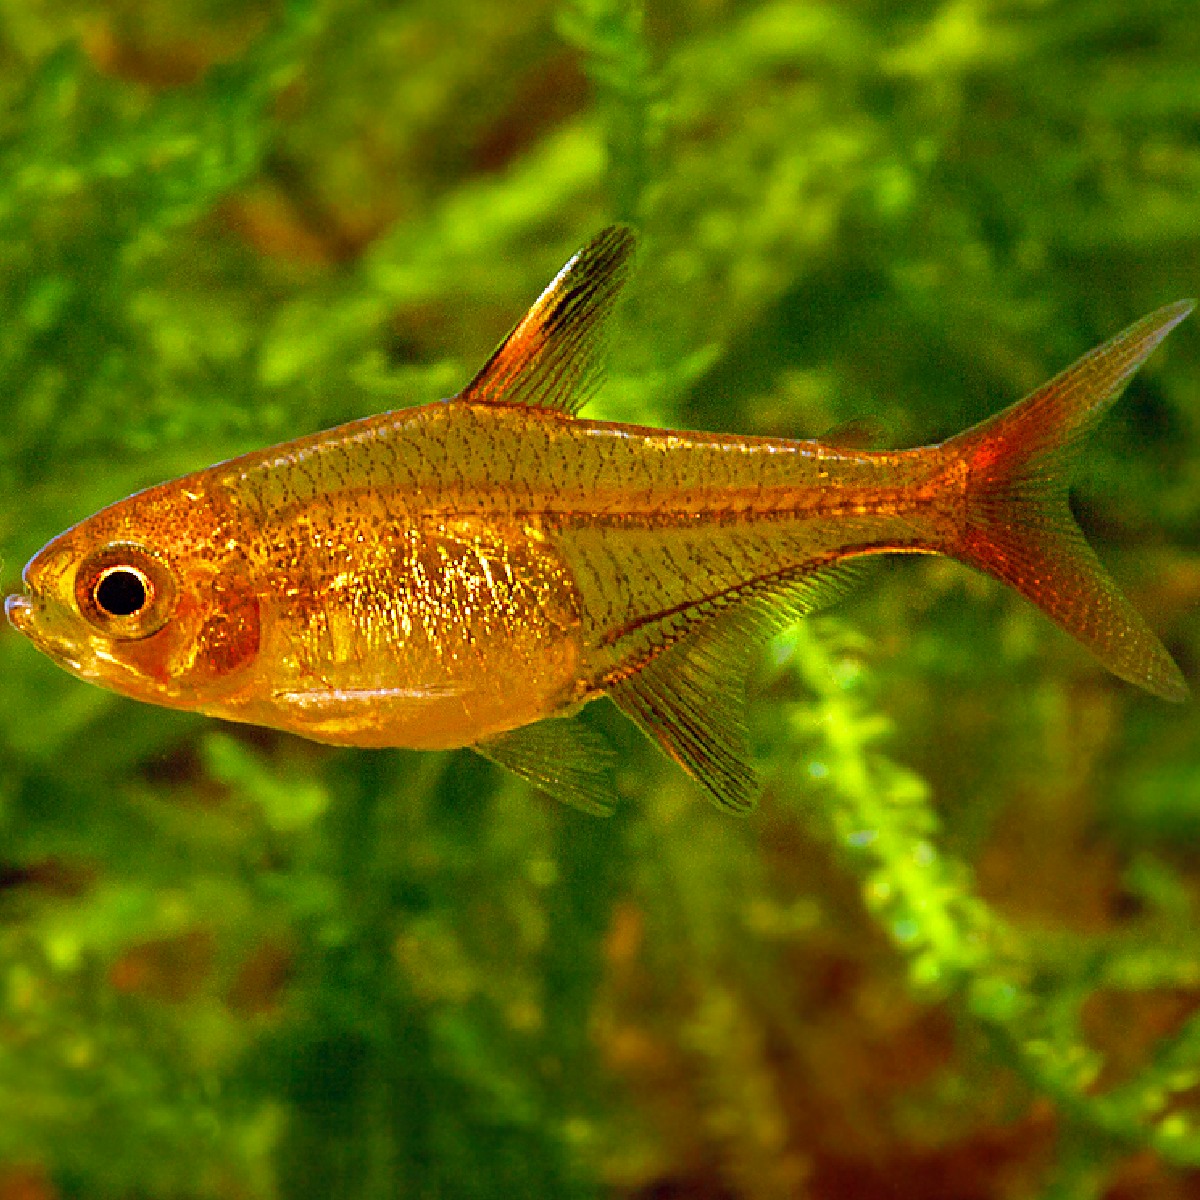
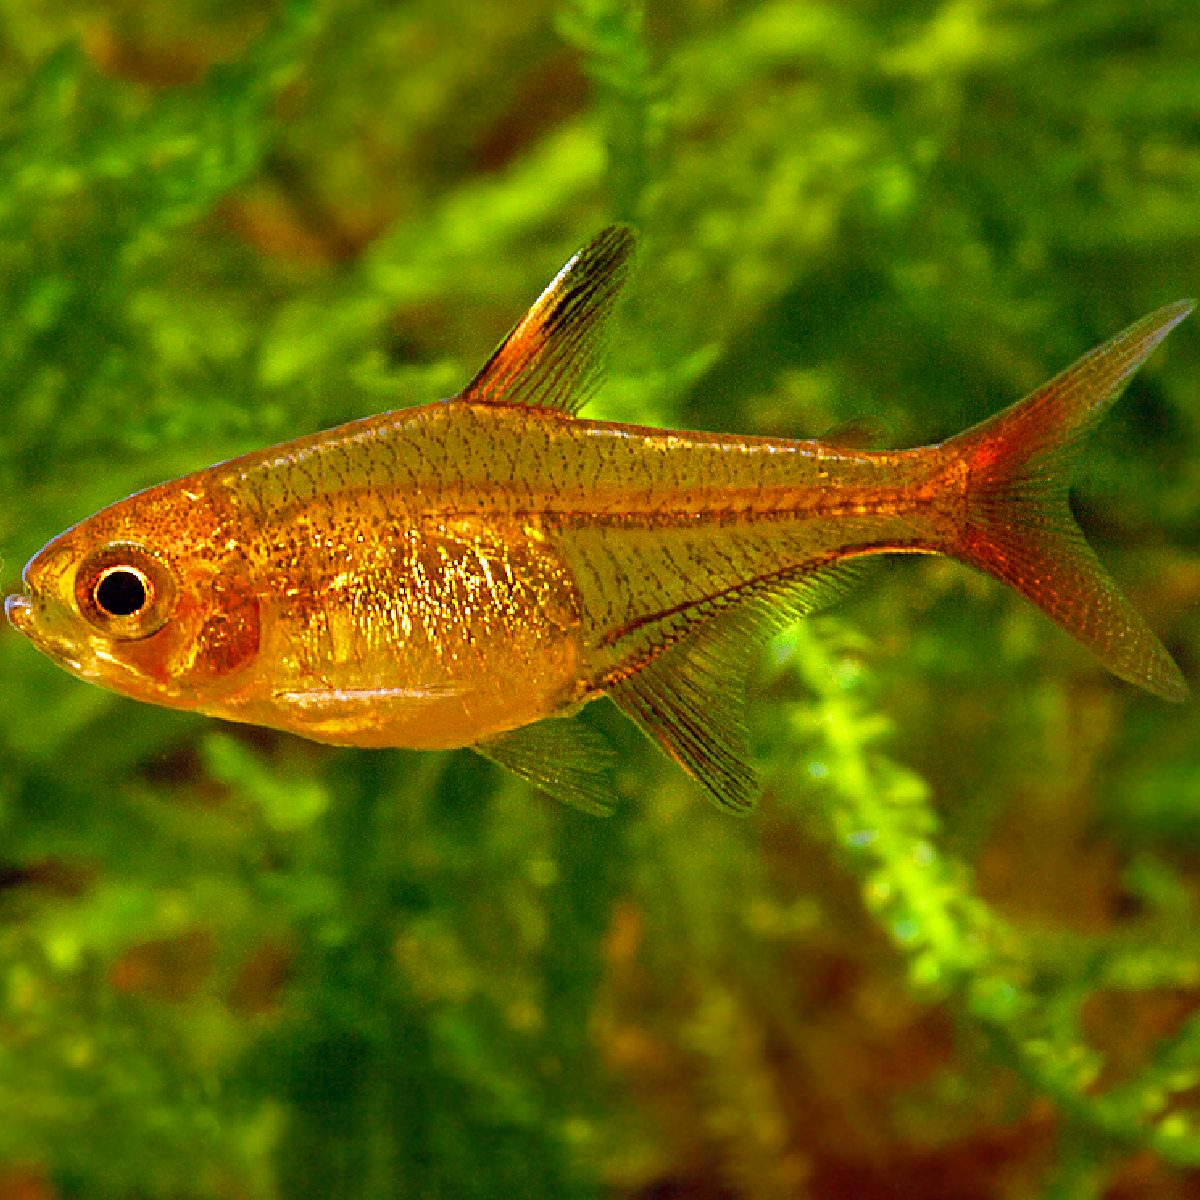
perf(images): convert the opaque PNG files named .jpg
Seven .jpg files were really PNG (up to 2.1 MB) and were skipped by the first pass, so the largest file was still 2.1 MB, not under 1 MB as the previous commit said. The script now converts opaque PNG and WebP content to JPEG and still leaves transparent images alone. Total: 309 of 413 photos rewritten, 112 MB -> 42 MB, largest file 0.42 MB.

diff --git a/frontend/scripts/optimize-images.py b/frontend/scripts/optimize-images.py
@@ -5,7 +5,8 @@ qualité 82, orientation EXIF appliquée et profil de couleur conservé.
 next/image redimensionne déjà les photos à l'affichage, mais il doit d'abord décoder l'original : des JPEG
 de 4 000 px et 5 Mo ralentissent le premier affichage de chaque photo et alourdissent le dépôt.
 Un fichier n'est remplacé que s'il gagne au moins 20 %, si bien qu'un second passage ne change rien.
-Les fichiers qui ne sont pas des JPEG RVB (PNG, transparence) sont laissés tels quels.
+Certains « .jpg » sont en fait des PNG ou des WebP : ils sont convertis en JPEG s'ils sont opaques,
+laissés tels quels s'ils ont de la transparence.
 
 Usage (Pillow requis, installé par backend/requirements-dev.txt) :
     backend/venv/bin/python frontend/scripts/optimize-images.py [--dry-run]
@@ -27,8 +28,10 @@ MIN_GAIN = 0.2
 def optimize(path: Path) -> bytes | None:
     """ Contenu optimisé de la photo, ou None si elle doit rester telle quelle """
     with Image.open(path) as im:
-        if im.format != 'JPEG' or im.mode != 'RGB':
-            return None
+        if im.mode != 'RGB':
+            if im.convert('RGBA').getchannel('A').getextrema()[0] < 255:
+                return None
+            im = im.convert('RGB')
         icc = im.info.get('icc_profile')
         im = ImageOps.exif_transpose(im)
         im.thumbnail((MAX_SIDE, MAX_SIDE), Image.LANCZOS)

diff --git a/CHANGELOG.md b/CHANGELOG.md
@@ -34,8 +34,9 @@ The format follows [Keep a Changelog](https://keepachangelog.com/en/1.1.0/).
 
 ### Changed
 - Fish and family photos downscaled to 2000 px at most and re-encoded (progressive JPEG, quality 82):
-  `public/images` and `public/families` go from 112 MB to 49 MB and the first display of a large photo is
-  about twice as fast. `make images` runs `frontend/scripts/optimize-images.py` on new photos.
+  `public/images` and `public/families` go from 112 MB to 42 MB (largest file 0.42 MB instead of 5.5 MB)
+  and the first display of a large photo is about twice as fast. `make images` runs
+  `frontend/scripts/optimize-images.py` on new photos.
 - **UI redesign** ([ADR 0003](docs/adr/0003-ui-redesign-tailwind.md)): Tailwind CSS design system (dark theme,
   teal accent, Space Grotesk / Inter), new header with mobile menu, footer, home page with a photo hero,
   "how it works" steps and family showcase, fish cards with search and family chips, fish detail page with
